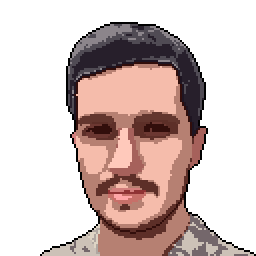
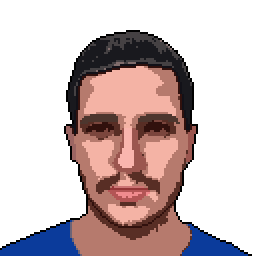
Altera foto da sessao Sobre

Changed region(s): [[0.0, 0.0625, 1.0, 1.0]]

diff --git a/index.html b/index.html
@@ -36,8 +36,10 @@
       </div>
       <section class="about">
         <h2 class="about__title section-title">Sobre mim</h2>
-        <p class="about__description">Lorem ipsum dolor sit amet consectetur adipisicing elit. Reprehenderit, illum. Aliquid quaerat aut voluptate praesentium illo totam aliquam blanditiis est quo at dignissimos unde dolore alias laboriosam, rerum impedit fugit!</p>
-        <img src="./assets/images/matheus-pixel.png" alt="Matheus em formato de pixel art" class="about__image">
+        <div class="about__container">
+          <p class="about__description">Lorem ipsum dolor sit amet consectetur adipisicing elit. Reprehenderit, illum. Aliquid quaerat aut voluptate praesentium illo totam aliquam blanditiis est quo at dignissimos unde dolore alias laboriosam, rerum impedit fugit!</p>
+          <img src="./assets/images/matheus-pixel.png" alt="Matheus em formato de pixel art" class="about__image">
+        </div>
     </section>
   </main>
 </body>

diff --git a/assets/css/style.css b/assets/css/style.css
@@ -185,18 +185,19 @@ main {
 .about__title {
   margin-bottom: 1rem;
 }
-.about__description {
-  color: var(--light-color);
-  font-size: 0.8rem;
-  line-height: 1.25rem;
-  text-align: justify;
+.about__container {
   padding: 0.5rem;
   background-image: radial-gradient(circle, var(--purple-300), var(--purple-400), var(--dark-purple));
   border-radius: 8px;
   border: 2px solid var(--light-color);
 }
+.about__description {
+  color: var(--light-color);
+  font-size: 0.8rem;
+  line-height: 1.25rem;
+  text-align: justify;
+}
 .about__image {
   display: block;
   margin: 0 auto;
-  width: 60%;
 }
